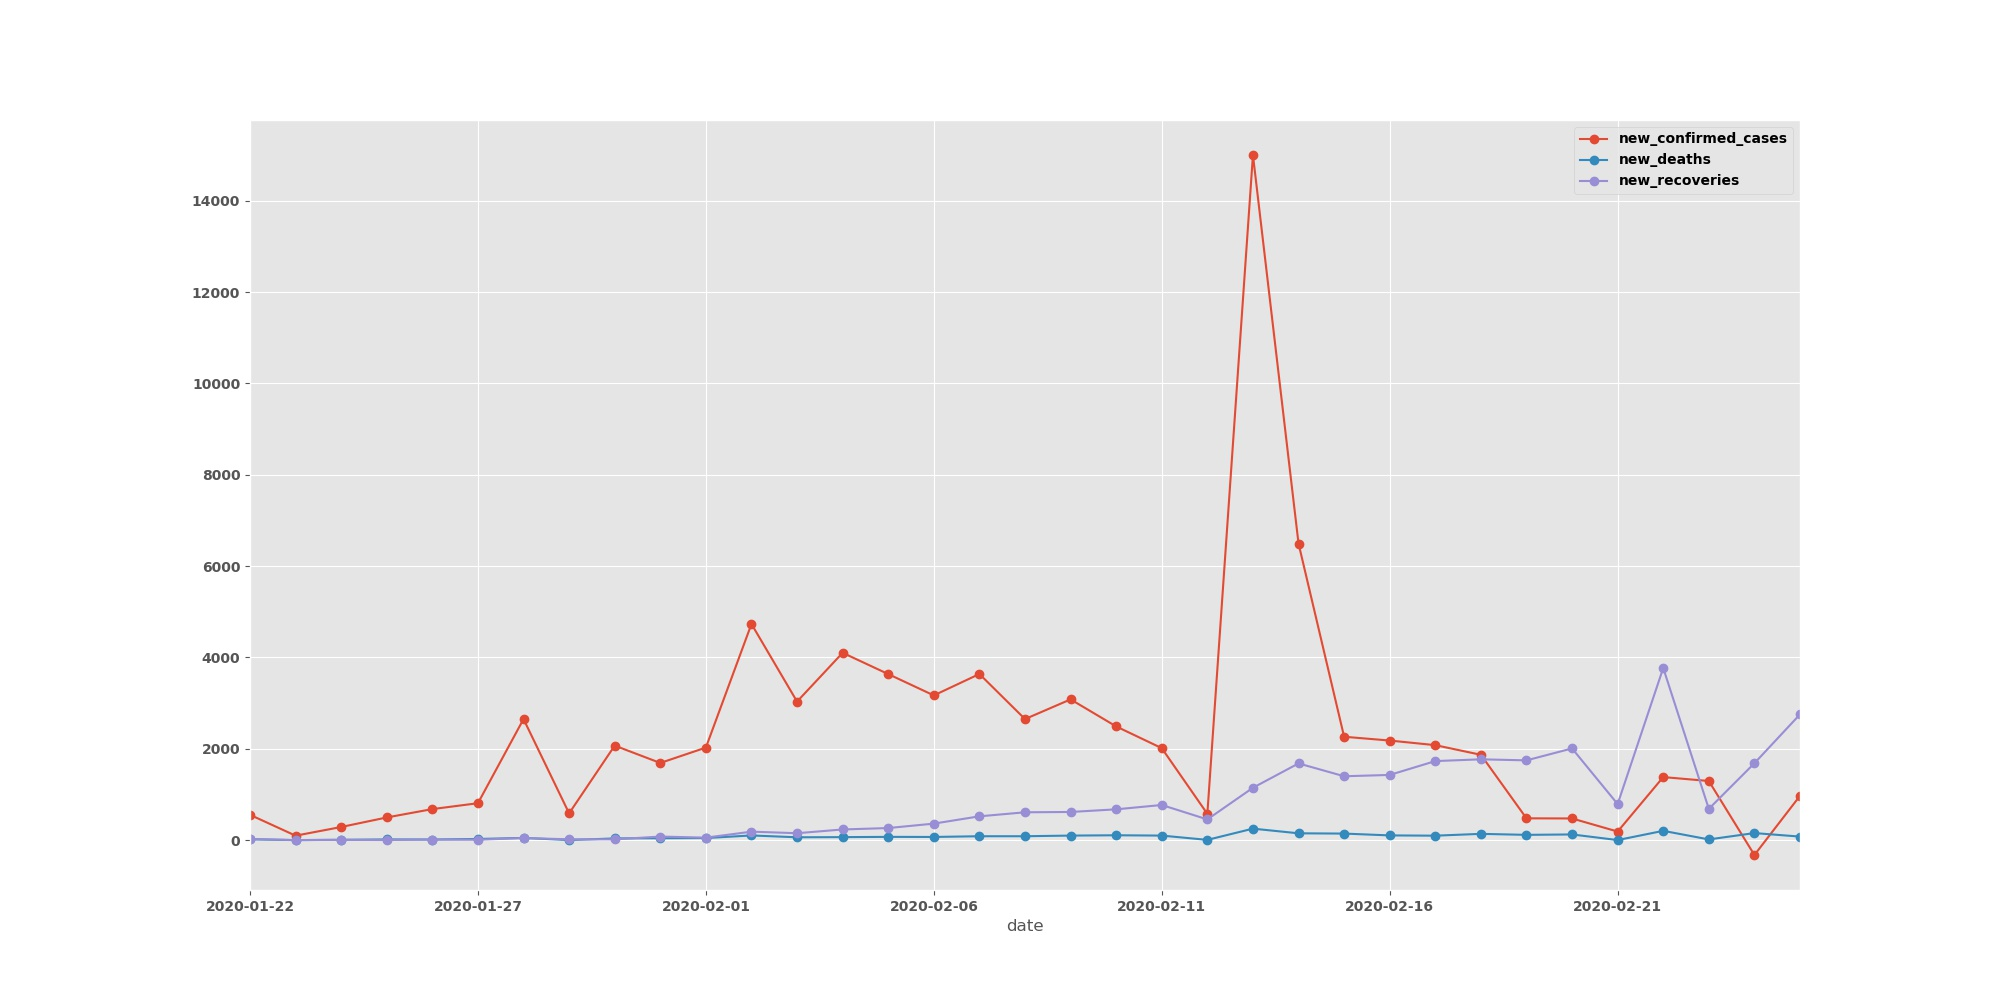
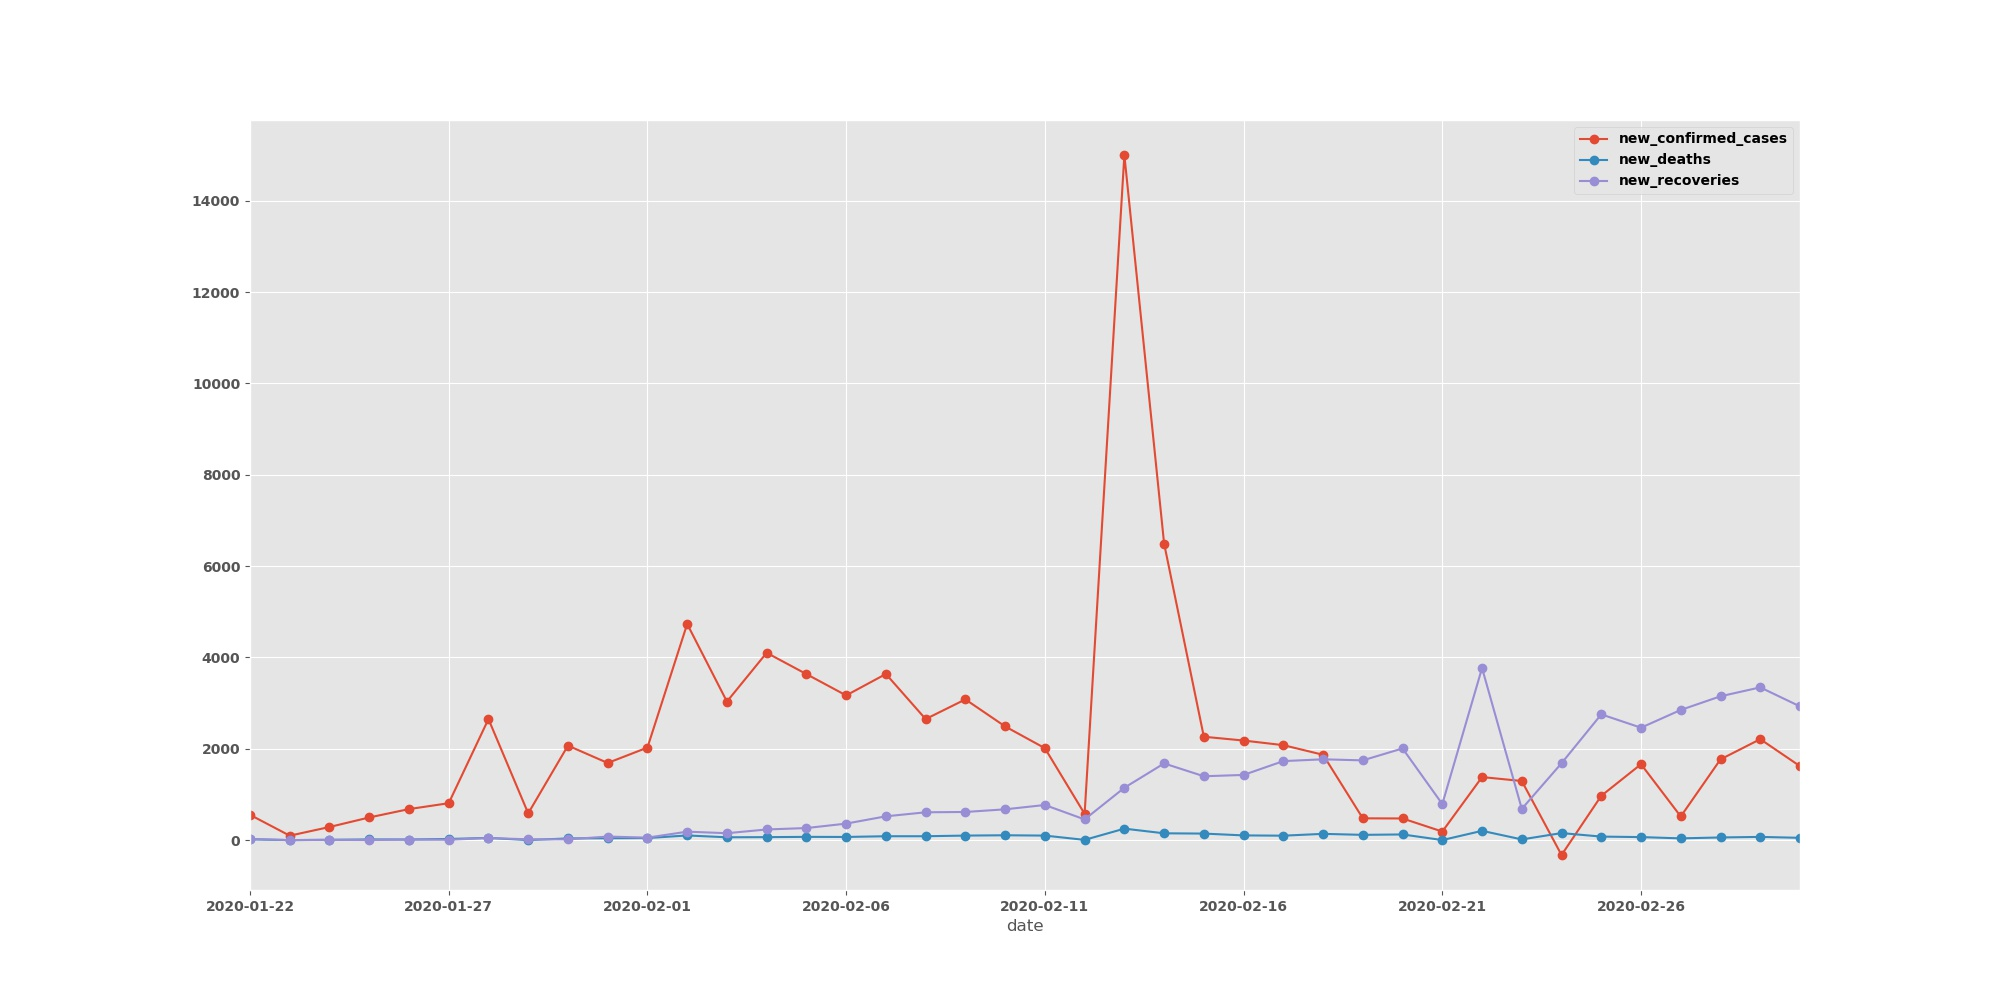
ADD - added report for 2nd of march

diff --git a/README.md b/README.md
@@ -32,7 +32,7 @@ This plots will be updated daily to visualize stats 3 attributes:
 - ```deaths```
 - ```recoveries```
 
-Last updated: `2020-02-26`
+Last updated: `2020-03-02`
 
 
 ##### Trend Line
